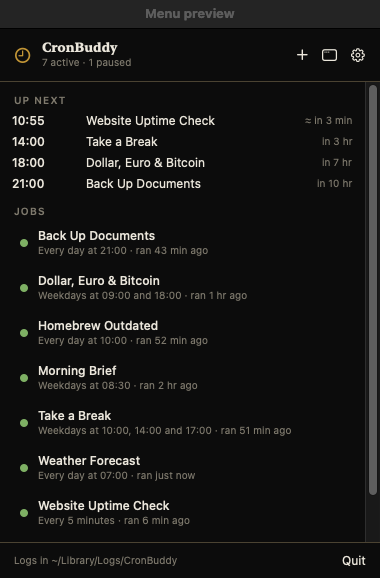
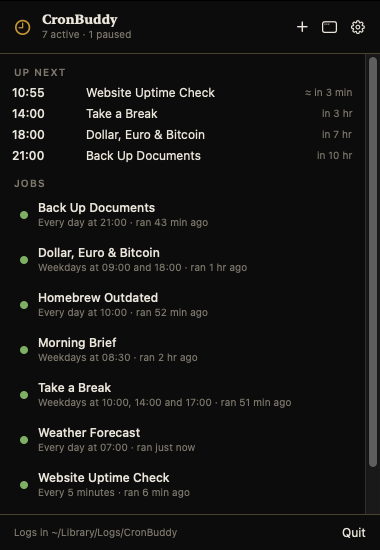
ci: release a universal app and disk image on version tags
Pushing a v* tag tests, builds CronBuddy for Apple silicon and Intel,
packages a DMG and a zip with checksums, and publishes the release with
first-launch instructions for the not-yet-notarized app. Also trims the
debug preview title bar from the menu bar screenshots and drops a stale
reference to Khronos from the changelog.

diff --git a/CHANGELOG.md b/CHANGELOG.md
@@ -22,7 +22,7 @@ CronBuddy is now a native Swift and SwiftUI app. The Python implementation is re
 - **Test Run** in the editor with live output, and **Run Now** with live output on every job.
 - **Run history**: output, exit code and duration for every run, log search, per-job success rate, and an *Activity* view across all jobs.
 - **Notifications** on failure, or on success with an output preview.
-- **Twenty templates**, many ported from Khronos, plus **Import from crontab**.
+- **Twenty templates** and **Import from crontab**.
 - **Themes**: System, Thoth, Paper, Phosphor and Nord.
 - Every job runs through CronBuddy's own executable, so one Full Disk Access grant covers them all. Lines written by 1.x (`--run … --name …`) keep working and can be imported.
 
@@ -54,7 +54,7 @@ O CronBuddy agora é um app nativo em Swift e SwiftUI. A implementação em Pyth
 - **Test Run** no editor e **Run Now** em cada job, com saída ao vivo.
 - **Histórico**: saída, código de saída e duração de cada execução, busca nos logs, taxa de sucesso e a tela *Activity*.
 - **Notificações** de falha, ou de sucesso com prévia da saída.
-- **Vinte templates**, muitos vindos do Khronos, e **Import from crontab**.
+- **Vinte templates** e **Import from crontab**.
 - **Temas**: Sistema, Thoth, Paper, Phosphor e Nord.
 - Todo job roda pelo executável do CronBuddy, então uma única permissão de Acesso Total ao Disco vale para todos. Linhas criadas pela 1.x (`--run … --name …`) continuam funcionando e podem ser importadas.
 
